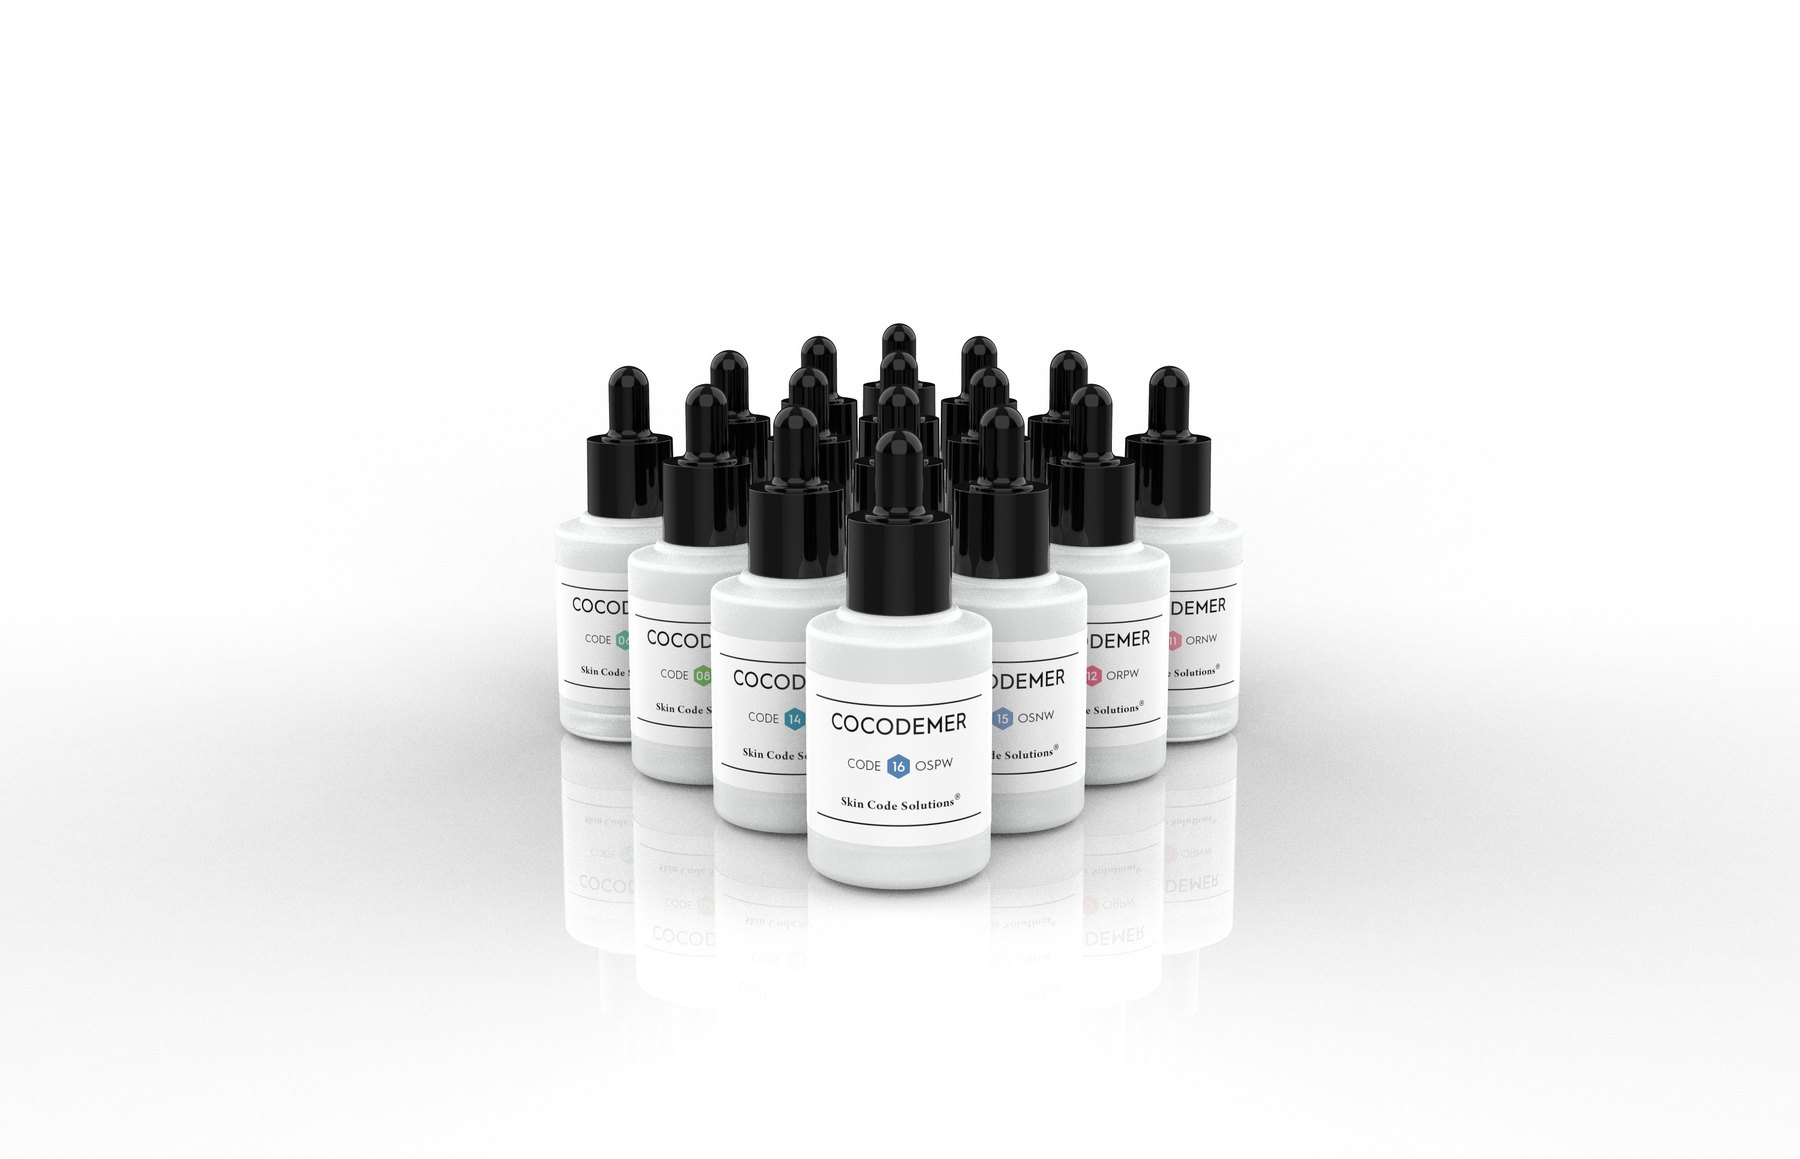
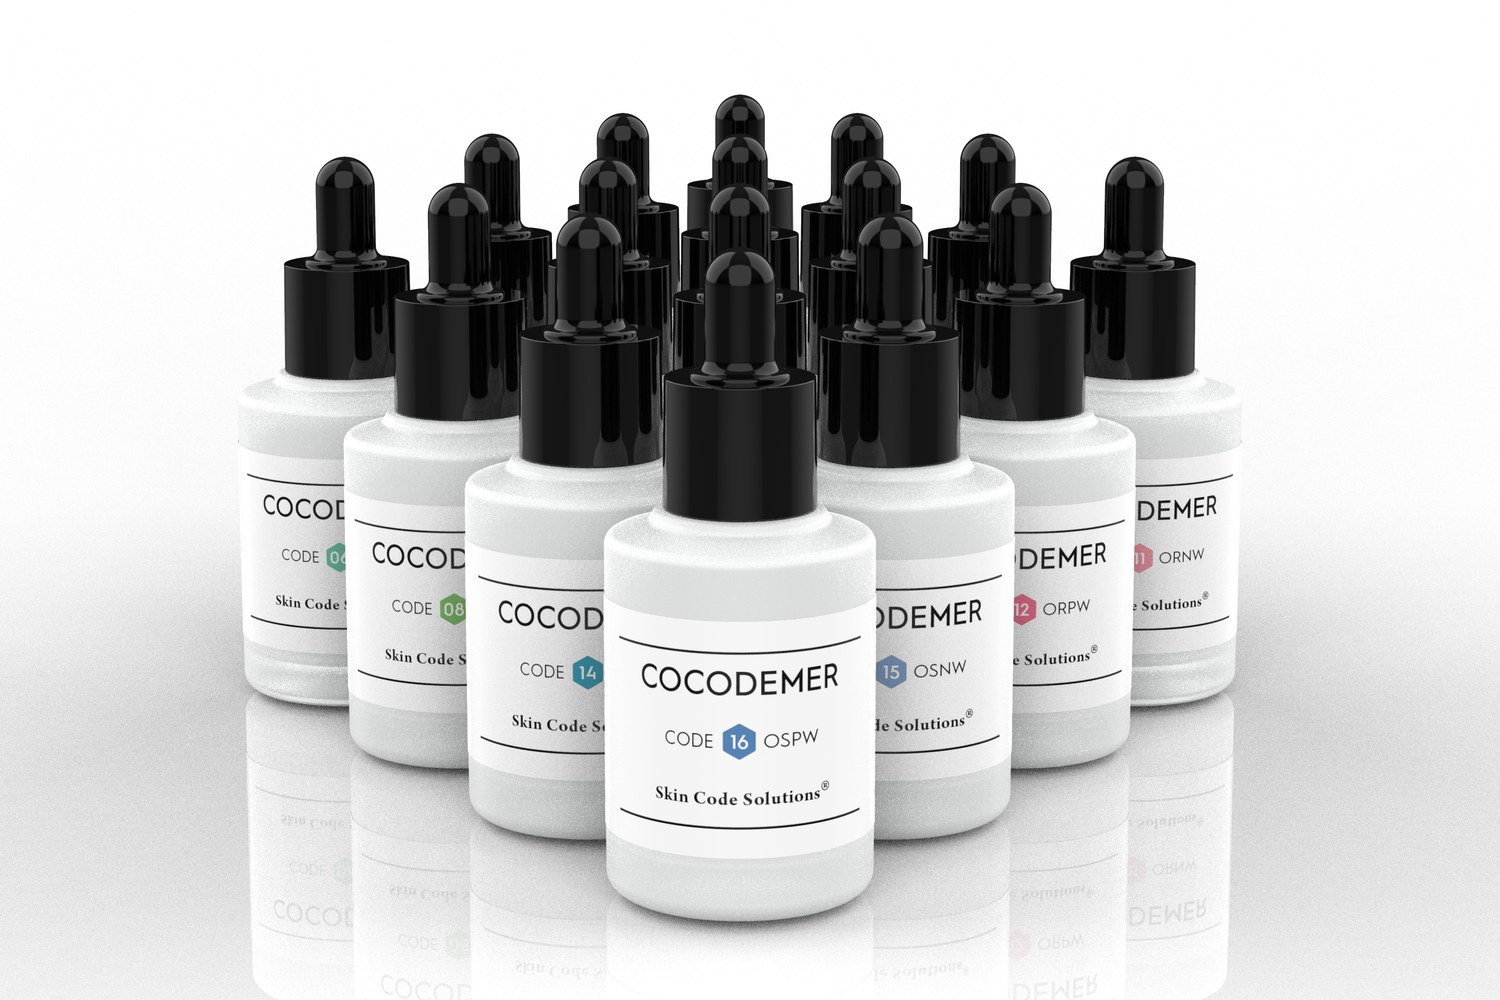
HOME OUR HERITAGE — 03 SKIN CODE 카드 이미지 교체 및 톤 정합
- 03 SKIN CODE 카드 대표 이미지를 CSTI 도표에서 Skin Code 제품 기록 사진으로 교체
- 카드 비율(3:2)에 맞춰 원본 디자인 소스를 프레이밍 crop, 제품군 잘림 없음
- 01 / 02 카드와 배경 톤을 맞추기 위해 카드 이미지 박스에 배경색 + multiply 적용 (이미지 파일 무수정)
- 카드 카피와 ARCHIVE 링크는 변경 없음
- CSTI 도표는 archive / skin-code / technology / brand 페이지에서 계속 사용

Changed region(s): [[0.0307, 0.093, 0.9507, 0.961]]

diff --git a/css/site.css b/css/site.css
@@ -873,3 +873,7 @@ a.rbk-item.is-now:hover .nm{text-decoration:underline;text-underline-offset:4px}
 .rbk-fig{aspect-ratio:3/2;background:#fff;border:1px solid var(--line-2);margin-bottom:22px;overflow:hidden}
 .rbk-fig img{width:100%;height:100%;object-fit:contain;display:block}
 @media (max-width:1024px){ .rbk-fig{aspect-ratio:16/9} }
+
+/* HOME OUR HERITAGE — 03 SKIN CODE 카드 톤 정합 (01·02와 배경 계열 맞춤) */
+#archive .arc .ph.tone{background:#ccceD8}
+#archive .arc .ph.tone img{mix-blend-mode:multiply}

diff --git a/index.html b/index.html
@@ -175,7 +175,7 @@
         </div>
       </a>
       <a class="arc" href="skin-code.html">
-        <div class="ph"><img loading="lazy" src="img/home-skincode-16types.png" alt="COCODEMER Skin Type Indicator(CSTI) · 16 Skin Types" style="object-fit:contain;background:#fff"></div>
+        <div class="ph tone"><img loading="lazy" src="img/arc-skincode.jpg" alt="COCODEMER Skin Code 맞춤 처방 제품 기록"></div>
         <div class="tx">
           <div class="no">03</div>
           <div class="ln">SKIN CODE</div>
